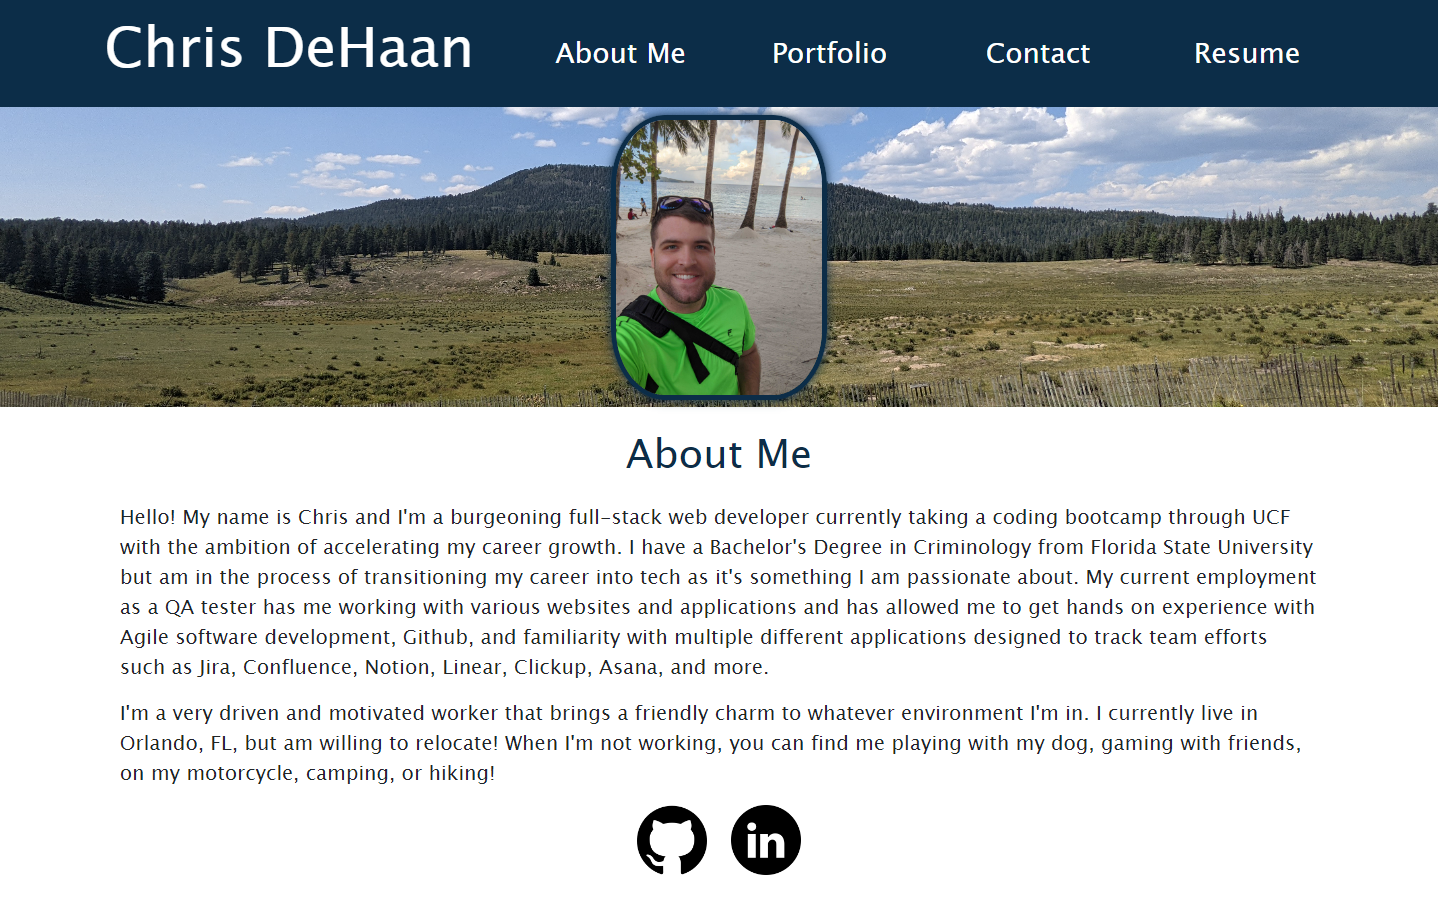
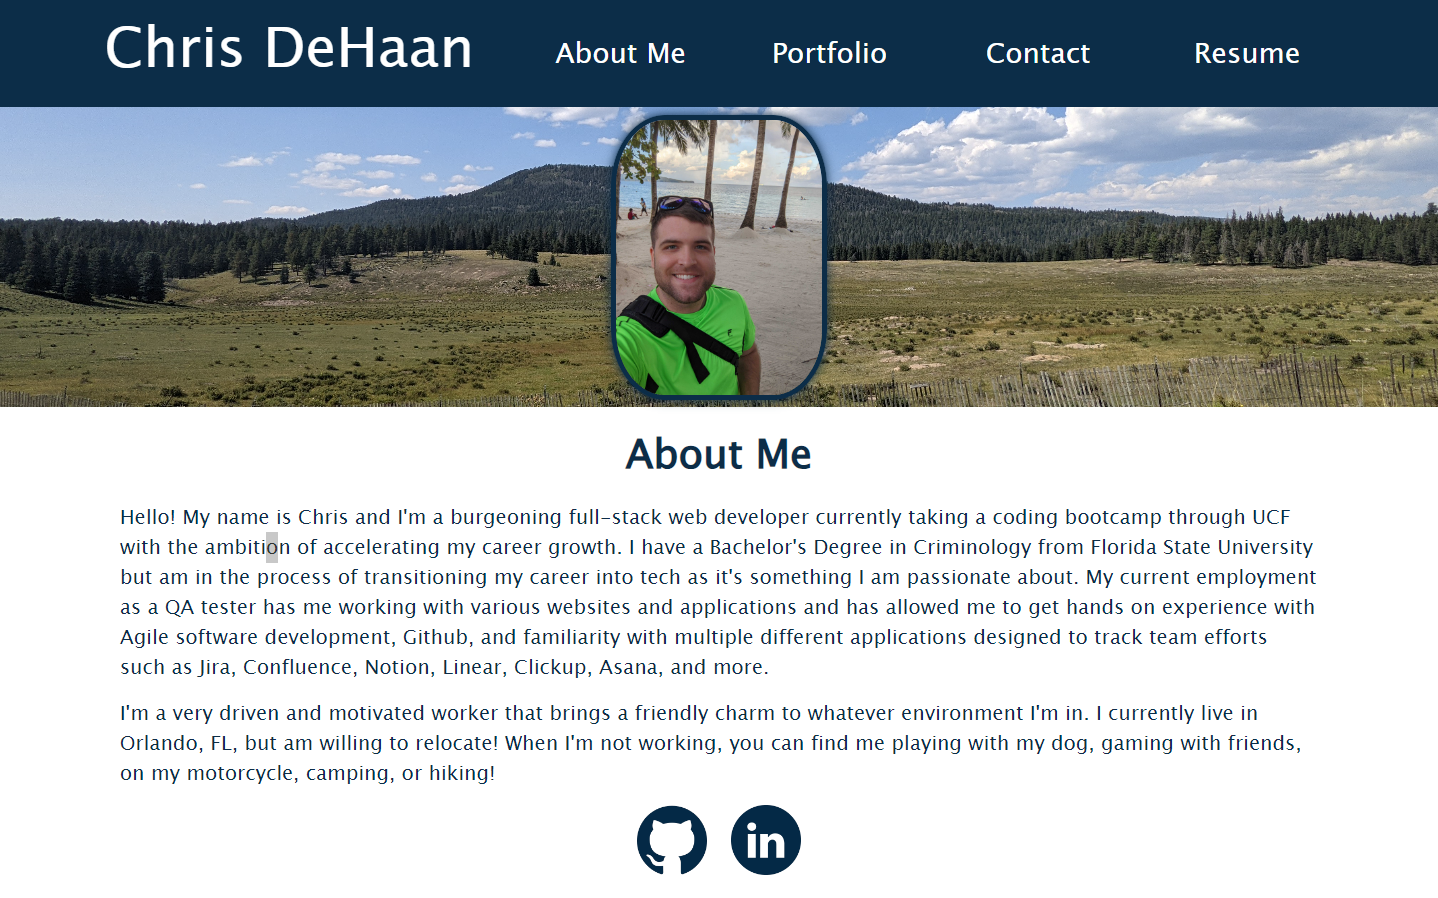
updated general styling and portoflio layout

diff --git a/src/pages/Portfolio.jsx b/src/pages/Portfolio.jsx
@@ -2,57 +2,51 @@ import PortfolioCard from '../components/PortfolioCard'
 
 import NasaSite from '../assets/NASA-API.png'
 import HealthcareSite from '../assets/project-2.png'
-import Jate from '../assets/JATE.png'
 import WeatherApp from '../assets/weather-app.png'
-import PasswordGen from '../assets/password-generator.png'
 import ProgramonPalace from '../assets/programon-palace.png'
 
 export default function Portfolio() {
     const data = [
         {
+            id: 0,
             title: 'Prográmon Palace',
             websiteLink: 'https://programon-palace-c417e58495b0.herokuapp.com/',
             websiteImage: ProgramonPalace,
-            githubLink: 'https://github.com/Bunde20/Team-SCCRM-3'
+            githubLink: 'https://github.com/Bunde20/Team-SCCRM-3',
+            text: 'Prográmon Palace is a MERN stack application that is heavily inspired by card games like Pokémon and Magic: The Gathering. Users can trade cards between themselves, purchase cards from the marketplace, and use those cards against bosses when venturing into the Palace. Tap the image to try it out! This application utilizes Mongo, Express, Node, React, Bootstrap, HTML, CSS, Javascript, animate.css, Fontawesome, bcrypt.js, Axios, JWT, and MidJourney.'
         },
         {
+            id: 1,
             title: 'NASA APIs',
             websiteLink: 'https://chrisdehaan.github.io/Team-SCCRM/',
             websiteImage: NasaSite,
-            githubLink: 'https://github.com/ChrisDeHaan/Team-SCCRM'
+            githubLink: 'https://github.com/ChrisDeHaan/Team-SCCRM',
+            text: 'A Front End application that uses the popular Astronomy Picture of the Day and Mars Rover NASA APIs. It was designed to provide an easy and convenient way to look through, find, and save your favorite APOD images or rover images. Tap the image to explore stunning images captured in, or related to, space. It utilizes HTML, CSS, Javascript, Boostrap, MidJourney, and DayJS.'
         },
         {
+            id: 2,
             title: 'Doctor Portal',
             websiteLink: 'https://sccrm-healthcare-bbafb87ca81b.herokuapp.com/',
             websiteImage: HealthcareSite,
-            githubLink: 'https://github.com/Elrond-Hubbard/Team-SCCRM-2'
+            githubLink: 'https://github.com/Elrond-Hubbard/Team-SCCRM-2',
+            text: "This is a web application for remotely managing and monitoring hospital patient vital signs. This system uses a MySQL database, Express server, and Socket.io for real-time communication on the frontend. The app provides secure and efficient means to store and view patients' health information, making it a valuable tool for healthcare professionals and institutions."
         },
         {
-            title: 'Just Another Note Taker',
-            websiteLink: 'https://just-another-note-taker-cwd-fa89b7859e8d.herokuapp.com/',
-            websiteImage: Jate,
-            githubLink: 'https://github.com/ChrisDeHaan/PWA-Text-Editor'
-        }, 
-        {
+            id: 3,
             title: 'Better Weather',
             websiteLink: 'https://chrisdehaan.github.io/Weather-App/',
             websiteImage: WeatherApp,
-            githubLink: 'https://github.com/ChrisDeHaan/Weather-App'
-        }, 
-        {
-            title: 'Random Password Generator',
-            websiteLink: 'https://chrisdehaan.github.io/Password-Generator/',
-            websiteImage: PasswordGen,
-            githubLink: 'https://github.com/ChrisDeHaan/Password-Generator'
-        }, 
+            githubLink: 'https://github.com/ChrisDeHaan/Weather-App',
+            text: "A simple Front End weather application that utilizes OpenWeather's free API in order to display the current weather as well as a 5 day forecast for searched locations. It saves the 5 most recent search locations for convenience. It utilizes Bootstrap, Javascript, HTML, and the OpenWeather API."
+        }
     ]
 
     return (
         <>
-            <h1 className="display-6 text-center m-4 title-custom">My Portfolio</h1>
+            <h1 className="display-6 text-center m-4 title-custom fw-bold">My Portfolio</h1>
 
-            <div className='row col-10 mx-auto'>
-                {data.map(obj => <PortfolioCard {...obj}/>)}
+            <div className='col-11 row mx-auto max-w'>
+                {data.map(obj => <PortfolioCard {...obj} key={obj.id}/>)}
             </div>
         </>
     )

diff --git a/src/components/PortfolioCard.jsx b/src/components/PortfolioCard.jsx
@@ -1,17 +1,22 @@
 import GithubLogo from '../assets/github-mark.png'
 
-export default function PortfolioCard({title, websiteLink, websiteImage, githubLink}) {
+export default function PortfolioCard({ title, websiteLink, websiteImage, githubLink, text }) {
     return (
-        <div className='col-12 col-md-6 my-4'>
-            <div className='text-center fs-4 title-custom'>
-                <p>{title}</p>
+        <div className='col-12 my-4 row mx-auto align-items-center'>
+            <div className='col-md-6 col-12 my-2'>
+                <div className='text-center fs-3 title-custom fw-bold'>
+                    <p>{title}</p>
+                </div>
+                <p>{text}</p>
+                <div className='text-center mt-2'>
+                    <a href={githubLink} target='_blank'>
+                        <img src={GithubLogo} className='imgRepo' />
+                    </a>
+                </div>
             </div>
-            <a href={websiteLink} target="_blank">
-                <img src={websiteImage} className='imgEl' />
-            </a>
-            <div className='text-center mt-2'>
-                <a href={githubLink} target='_blank'>
-                    <img src={GithubLogo} className='imgRepo' />
+            <div className='col-md-6 col-12 my-2'>
+                <a href={websiteLink} target="_blank">
+                    <img src={websiteImage} className='imgEl' />
                 </a>
             </div>
         </div>

diff --git a/src/components/Footer/Footer.jsx b/src/components/Footer/Footer.jsx
@@ -1,11 +1,11 @@
-import GithubLogo from '../assets/github-mark.png'
-import LinkedInLogo from '../assets/linkedin_black_logo_icon.png'
+import GithubLogo from '../../assets/github-mark.png'
+import LinkedInLogo from '../../assets/linkedin_black_logo_icon.png'
 
 import './Footer.css'
 
 export default function Footer() {
     return (
-        <div className='row my-2 mx-auto col-6 footerDiv'>
+        <div className='row my-2 mx-auto col-6 footerDiv max-w'>
             <div className='col-6 text-end'>
                 <a href='https://github.com/ChrisDeHaan' target='_blank'>
                     <img src={GithubLogo} className='footerLogo' />

diff --git a/src/pages/AboutMe.jsx b/src/pages/AboutMe.jsx
@@ -8,7 +8,7 @@ export default function Home() {
                 <img src={pfp} className='img-fluid pfp' />
             </div>
             <div className='col-10 mx-auto'>
-                <h1 className="display-6 text-center m-4 header-cstm">About Me</h1>
+                <h1 className="display-6 text-center m-4 header-cstm fw-bold">About Me</h1>
                 <p className='fs-5'>Hello! My name is Chris and I'm a burgeoning full-stack web developer currently taking a coding
                     bootcamp
                     through UCF with the ambition of accelerating my career growth. I have a Bachelor's Degree in

diff --git a/src/pages/Contact.jsx b/src/pages/Contact.jsx
@@ -75,8 +75,8 @@ export default function Contact() {
     }
 
     return (
-        <div>
-            <h1 className="display-6 text-center m-4 title-custom">Contact Me</h1>
+        <div className='max-w mx-auto'>
+            <h1 className="display-6 text-center m-4 title-custom fw-bold">Contact Me</h1>
             <div className='text-center fs-5' id='submissionEl'></div>
             <form className='col-10 mx-auto' onSubmit={validateForm}>
                 <div className="col-12 col-md-7 mx-auto my-3">

diff --git a/src/App.css b/src/App.css
@@ -10,6 +10,14 @@
     font-family: 'Lucida Sans', 'Lucida Sans Regular', 'Lucida Grande', 'Lucida Sans Unicode', Geneva, Verdana, sans-serif;
 }
 
+p {
+    color: var(--dark-blue)
+}
+
+.max-w {
+    max-width: 1440px;
+}
+
 /* About Me */
 .header-cstm {
     color: var(--dark-blue);
@@ -73,6 +81,11 @@
 .imgRepo {
     height: 40px;
     width: 40px;
+    transition: 250ms;
+}
+
+.imgRepo:hover {
+    transform: translateY(-7px);
 }
 
 /* Resume */

diff --git a/src/pages/Error.jsx b/src/pages/Error.jsx
@@ -5,8 +5,8 @@ export default function Error() {
     console.error(error);
 
     return(
-        <div id='error-page'>
-            <h1 className='display-6'>Oops!</h1>
+        <div id='error-page' className="col-10 mx-auto max-w m-5">
+            <h1 className='display-6 title-custom'>Oops!</h1>
             <p>Sorry, an unexpected error has occurred.</p>
             <p>
                 <i>{error.data || error.error.message}</i>

diff --git a/src/App.jsx b/src/App.jsx
@@ -1,8 +1,8 @@
 import { useState } from 'react'
 import {Outlet} from 'react-router-dom'
 
-import Navbar from './components/Nav'
-import Footer from './components/Footer'
+import { Nav } from './components/Nav'
+import { Footer } from './components/Footer'
 
 import './App.css'
 
@@ -10,7 +10,7 @@ function App() {
 
   return (
     <>
-      <Navbar/>
+      <Nav/>
       <main>
         <Outlet/>
       </main>

diff --git a/src/components/Nav/Nav.jsx b/src/components/Nav/Nav.jsx
@@ -6,7 +6,7 @@ export default function NavTabs() {
 
     return (
         <header className='p-3 text-white'>
-            <div className='row col-11 mx-auto align-items-center'>
+            <div className='row col-11 mx-auto align-items-center max-w'>
                 <div className='col-10 col-md-4 mx-auto text-center'>
                     <h1 className='display-4'>Chris DeHaan</h1>
                 </div>

diff --git a/src/pages/Resume.jsx b/src/pages/Resume.jsx
@@ -1,6 +1,6 @@
 export default function Resume() {
     return (
-        <div>
+        <div className="mx-auto max-w">
             <h1 className="display-6 text-center m-4 title-custom">Resume</h1>
             <div className="col-10 mx-auto mb-5 title-custom">
                 <div className="mb-5 text-center">

diff --git a/src/components/Footer/Footer.css b/src/components/Footer/Footer.css
@@ -5,10 +5,10 @@
 .footerLogo {
     height: 70px;
     width: 70px;
+    transition: 250ms;
 }
 
 .footerLogo:hover {
-    border-radius: 50%;
-    box-shadow: 0 0 10px 2px gray;
+    transform: translateY(-7px);
 }
 

diff --git a/src/components/Footer/index.jsx b/src/components/Footer/index.jsx
@@ -1,0 +1,1 @@
+export {default as Footer} from './Footer'
